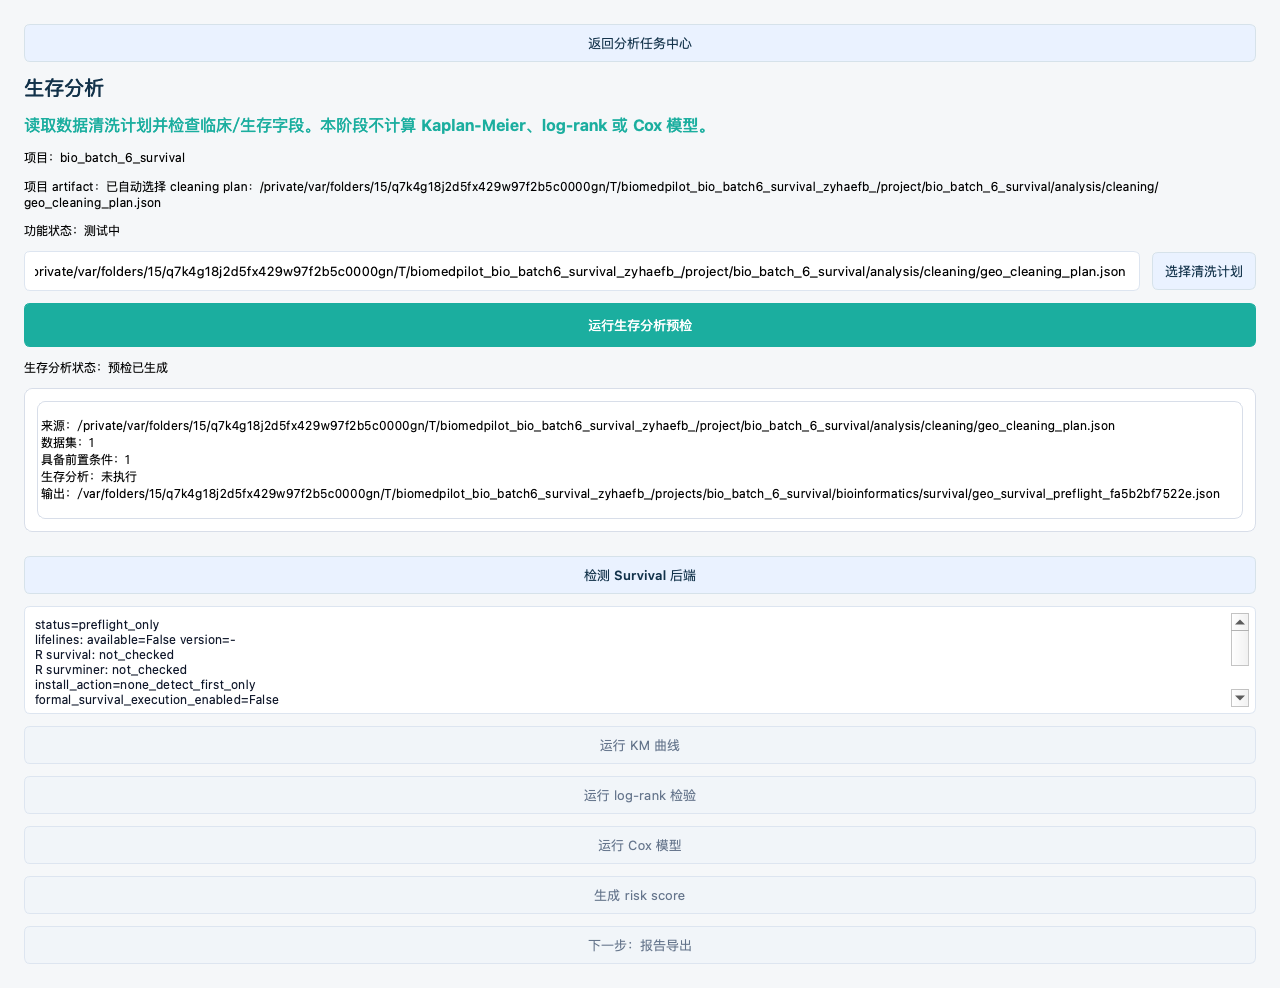
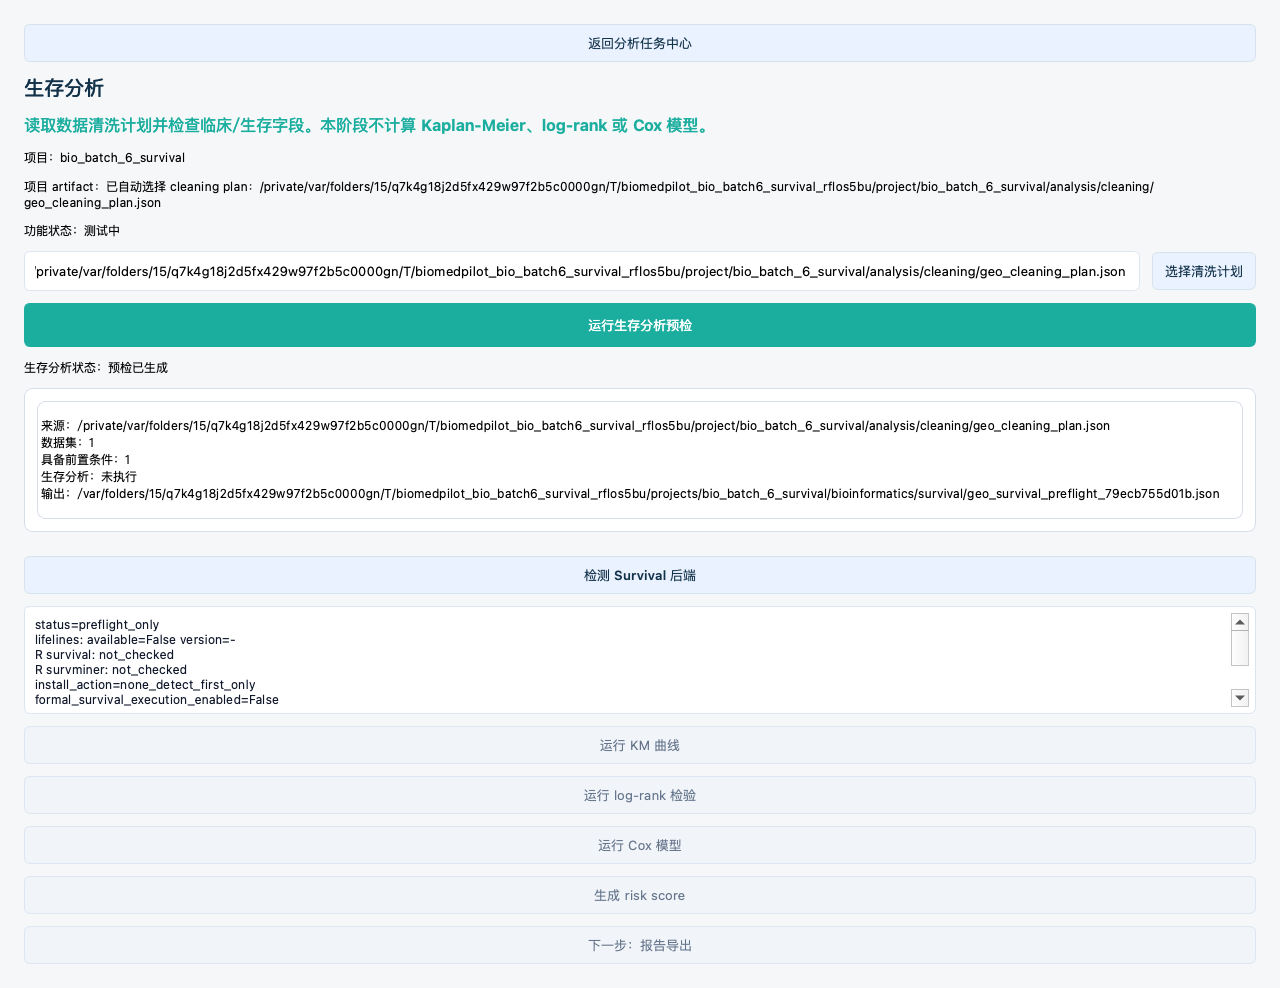
fix(bio): harden survival gate reasons

diff --git a/scripts/ui_route_contract_bio_batch6_survival.py b/scripts/ui_route_contract_bio_batch6_survival.py
@@ -213,7 +213,12 @@ def _audit_page_buttons(
     detect_button = _find_button(page, "detectSurvivalBackendButton")
     detect_button.click()
     detection_text = _find_plain_text(page, "survivalBackendDetectionText").toPlainText()
-    detect_ok = "lifelines:" in detection_text and "formal_survival_execution_enabled=False" in detection_text and "KM/log-rank/Cox/risk_score=disabled" in detection_text
+    detect_ok = (
+        "lifelines:" in detection_text
+        and "formal_survival_execution_enabled=False" in detection_text
+        and "KM/log-rank/Cox/risk_score=disabled" in detection_text
+        and "disabled_gate_basis=lifelines_or_r_survival_backend_required_plus_result_schema" in detection_text
+    )
     rows.append(
         _button_row(
             "BIO-SURVIVAL-DETECT-BACKEND",
@@ -228,13 +233,25 @@ def _audit_page_buttons(
         failures.append("BIO-SURVIVAL-DETECT-BACKEND: backend detection output did not include expected survival gates")
 
     disabled_expectations = {
-        "runKmCurveDisabledButton": ("BIO-SURVIVAL-KM-CURVE-GATE", "km_curve_executor_not_connected"),
-        "runLogRankDisabledButton": ("BIO-SURVIVAL-LOGRANK-GATE", "logrank_executor_not_connected"),
-        "runCoxModelDisabledButton": ("BIO-SURVIVAL-COX-MODEL-GATE", "cox_model_executor_not_connected"),
-        "generateRiskScoreDisabledButton": ("BIO-SURVIVAL-RISK-SCORE-GATE", "risk_score_model_not_connected"),
+        "runKmCurveDisabledButton": (
+            "BIO-SURVIVAL-KM-CURVE-GATE",
+            "km_curve_executor_requires_lifelines_or_r_survival_backend_and_result_schema",
+        ),
+        "runLogRankDisabledButton": (
+            "BIO-SURVIVAL-LOGRANK-GATE",
+            "logrank_executor_requires_lifelines_or_r_survival_backend_event_schema_and_grouping_gate",
+        ),
+        "runCoxModelDisabledButton": (
+            "BIO-SURVIVAL-COX-MODEL-GATE",
+            "cox_model_executor_requires_lifelines_or_r_survival_backend_covariate_schema_and_hr_result_schema",
+        ),
+        "generateRiskScoreDisabledButton": (
+            "BIO-SURVIVAL-RISK-SCORE-GATE",
+            "risk_score_requires_validated_model_formula_training_validation_schema_and_report_gate",
+        ),
         "survivalReportExportDisabledButton": (
             "BIO-SURVIVAL-CLINICAL-REPORT-READY-GATE",
-            "km_cox_logrank_risk_score_and_clinical_report_ready_gate_not_enabled",
+            "survival_clinical_report_ready_requires_km_logrank_cox_risk_score_results_and_gate",
         ),
     }
     for object_name, (contract_id, disabled_reason) in disabled_expectations.items():

diff --git a/app/bioinformatics/pages/survival_page.py b/app/bioinformatics/pages/survival_page.py
@@ -154,45 +154,45 @@ if QWidget is not None:
             km_button.setObjectName("runKmCurveDisabledButton")
             km_button.setEnabled(False)
             km_button.setProperty("buttonBehavior", "disabled_km_curve_executor_not_connected")
-            km_button.setProperty("disabledReason", "km_curve_executor_not_connected")
+            km_button.setProperty("disabledReason", "km_curve_executor_requires_lifelines_or_r_survival_backend_and_result_schema")
             km_button.setProperty("formalActionEnabled", False)
-            km_button.setToolTip("disabled：当前只生成 survival preflight artifact，KM curve executor 尚未纳入 release gate。")
+            km_button.setToolTip("disabled：需要 lifelines 或 R survival 后端、validated survival result schema 和 KM plot gate。")
             root.addWidget(km_button)
 
             logrank_button = QPushButton("运行 log-rank 检验")
             logrank_button.setObjectName("runLogRankDisabledButton")
             logrank_button.setEnabled(False)
             logrank_button.setProperty("buttonBehavior", "disabled_logrank_executor_not_connected")
-            logrank_button.setProperty("disabledReason", "logrank_executor_not_connected")
+            logrank_button.setProperty("disabledReason", "logrank_executor_requires_lifelines_or_r_survival_backend_event_schema_and_grouping_gate")
             logrank_button.setProperty("formalActionEnabled", False)
-            logrank_button.setToolTip("disabled：log-rank p-value executor 未接入；不能生成正式生存统计结论。")
+            logrank_button.setToolTip("disabled：需要 lifelines 或 R survival 后端、事件编码 schema、分组策略和正式 p-value 结果 schema。")
             root.addWidget(logrank_button)
 
             cox_button = QPushButton("运行 Cox 模型")
             cox_button.setObjectName("runCoxModelDisabledButton")
             cox_button.setEnabled(False)
             cox_button.setProperty("buttonBehavior", "disabled_cox_model_executor_not_connected")
-            cox_button.setProperty("disabledReason", "cox_model_executor_not_connected")
+            cox_button.setProperty("disabledReason", "cox_model_executor_requires_lifelines_or_r_survival_backend_covariate_schema_and_hr_result_schema")
             cox_button.setProperty("formalActionEnabled", False)
-            cox_button.setToolTip("disabled：Cox model executor、HR schema 和协变量审查 gate 未接入。")
+            cox_button.setToolTip("disabled：需要 lifelines 或 R survival 后端、协变量审查 gate、HR/CI/p-value result schema。")
             root.addWidget(cox_button)
 
             risk_button = QPushButton("生成 risk score")
             risk_button.setObjectName("generateRiskScoreDisabledButton")
             risk_button.setEnabled(False)
             risk_button.setProperty("buttonBehavior", "disabled_risk_score_model_not_connected")
-            risk_button.setProperty("disabledReason", "risk_score_model_not_connected")
+            risk_button.setProperty("disabledReason", "risk_score_requires_validated_model_formula_training_validation_schema_and_report_gate")
             risk_button.setProperty("formalActionEnabled", False)
-            risk_button.setToolTip("disabled：risk score model、评分公式、训练/验证 schema 未接入。")
+            risk_button.setToolTip("disabled：需要 validated model formula、训练/验证 schema、risk group manifest 和 report gate。")
             root.addWidget(risk_button)
 
             next_button = QPushButton("下一步：报告导出")
             next_button.setObjectName("survivalReportExportDisabledButton")
             next_button.setEnabled(False)
             next_button.setProperty("buttonBehavior", "disabled_survival_clinical_report_ready_not_connected")
-            next_button.setProperty("disabledReason", "km_cox_logrank_risk_score_and_clinical_report_ready_gate_not_enabled")
+            next_button.setProperty("disabledReason", "survival_clinical_report_ready_requires_km_logrank_cox_risk_score_results_and_gate")
             next_button.setProperty("formalActionEnabled", False)
-            next_button.setToolTip("disabled：KM/Cox/log-rank、risk score 和 clinical report-ready 不属于当前 Bio C1b 接线范围。")
+            next_button.setToolTip("disabled：KM/Cox/log-rank、risk score 结果和 clinical report-ready package gate 尚未满足。")
             root.addWidget(next_button)
             root.addStretch(1)
 
@@ -248,6 +248,7 @@ if QWidget is not None:
                 "formal_survival_execution_enabled=False",
                 "report_ready_gate_enabled=False",
                 "KM/log-rank/Cox/risk_score=disabled",
+                "disabled_gate_basis=lifelines_or_r_survival_backend_required_plus_result_schema",
                 str(snapshot.get("message") or ""),
                 "blockers=" + ", ".join(str(item) for item in snapshot.get("blockers", []) or []) if snapshot.get("blockers") else "blockers=none",
                 "warnings=" + ", ".join(str(item) for item in snapshot.get("warnings", []) or []) if snapshot.get("warnings") else "warnings=none",

diff --git a/tests/ui/test_bioinformatics_workflow_pages.py b/tests/ui/test_bioinformatics_workflow_pages.py
@@ -3707,7 +3707,7 @@ def test_bio_workspace_enrichment_and_survival_gate_pages_call_services(qt_app, 
     assert survival_disabled is not None
     assert not survival_disabled.isEnabled()
     assert survival_disabled.property("buttonBehavior") == "disabled_survival_clinical_report_ready_not_connected"
-    assert survival_disabled.property("disabledReason") == "km_cox_logrank_risk_score_and_clinical_report_ready_gate_not_enabled"
+    assert survival_disabled.property("disabledReason") == "survival_clinical_report_ready_requires_km_logrank_cox_risk_score_results_and_gate"
     assert "KM/Cox/log-rank" in survival_disabled.toolTip()
 
     survival_detect_backend = widget._survival_page.findChild(QPushButton, "detectSurvivalBackendButton")
@@ -3724,13 +3724,14 @@ def test_bio_workspace_enrichment_and_survival_gate_pages_call_services(qt_app, 
     assert "lifelines:" in survival_backend_result
     assert "formal_survival_execution_enabled=False" in survival_backend_result
     assert "KM/log-rank/Cox/risk_score=disabled" in survival_backend_result
+    assert "disabled_gate_basis=lifelines_or_r_survival_backend_required_plus_result_schema" in survival_backend_result
 
     survival_disabled_buttons = {
-        "runKmCurveDisabledButton": "km_curve_executor_not_connected",
-        "runLogRankDisabledButton": "logrank_executor_not_connected",
-        "runCoxModelDisabledButton": "cox_model_executor_not_connected",
-        "generateRiskScoreDisabledButton": "risk_score_model_not_connected",
-        "survivalReportExportDisabledButton": "km_cox_logrank_risk_score_and_clinical_report_ready_gate_not_enabled",
+        "runKmCurveDisabledButton": "km_curve_executor_requires_lifelines_or_r_survival_backend_and_result_schema",
+        "runLogRankDisabledButton": "logrank_executor_requires_lifelines_or_r_survival_backend_event_schema_and_grouping_gate",
+        "runCoxModelDisabledButton": "cox_model_executor_requires_lifelines_or_r_survival_backend_covariate_schema_and_hr_result_schema",
+        "generateRiskScoreDisabledButton": "risk_score_requires_validated_model_formula_training_validation_schema_and_report_gate",
+        "survivalReportExportDisabledButton": "survival_clinical_report_ready_requires_km_logrank_cox_risk_score_results_and_gate",
     }
     for object_name, disabled_reason in survival_disabled_buttons.items():
         button = widget._survival_page.findChild(QPushButton, object_name)

diff --git a/docs/project-control/UI_ROUTE_CONTRACT_BIO_BATCH6_SURVIVAL.md b/docs/project-control/UI_ROUTE_CONTRACT_BIO_BATCH6_SURVIVAL.md
@@ -1,7 +1,7 @@
 # UI Route Contract: Bio Batch 6 Survival/Clinical
 
 - branch: `integration/release-bio-c1-ui-shell`
-- head: `8b20ac157f3c582381cedc2690293327fc5c64f3`
+- head: `606bb2c7881a843d4e41e381116b120248b7877d`
 - scope: Bioinformatics survival/clinical input gate, backend dependency detection, KM/log-rank/Cox/risk score disabled gates, and clinical report-ready gate.
 - rows: 9
 - connected: 4
@@ -17,11 +17,11 @@
 | Contract | Object | Status | Behavior | Evidence | Observed |
 | --- | --- | --- | --- | --- | --- |
 | BIO-SURVIVAL-BACK | `survivalBackButton` | connected | `navigates_back_to_analysis_tasks` | signal=back_requested | back_signal=True |
-| BIO-SURVIVAL-CHOOSE-CLEANING-PLAN | `chooseSurvivalCleaningPlanButton` | connected | `selects_cleaning_plan_json` | /private/var/folders/15/q7k4g18j2d5fx429w97f2b5c0000gn/T/biomedpilot_bio_batch6_survival_zyhaefb_/project/bio_batch_6_survival/analysis/cleaning/geo_cleaning_plan.json | path_input=/private/var/folders/15/q7k4g18j2d5fx429w97f2b5c0000gn/T/biomedpilot_bio_batch6_survival_zyhaefb_/project/bio_batch_6_survival/analysis/cleaning/geo_cleaning_plan.json |
-| BIO-SURVIVAL-RUN-PREFLIGHT | `runSurvivalPreflightButton` | connected | `calls_survival_service_create_preflight_artifact` | /var/folders/15/q7k4g18j2d5fx429w97f2b5c0000gn/T/biomedpilot_bio_batch6_survival_zyhaefb_/projects/bio_batch_6_survival/bioinformatics/survival/geo_survival_preflight_fa5b2bf7522e.json | survival_analysis_executed=False |
+| BIO-SURVIVAL-CHOOSE-CLEANING-PLAN | `chooseSurvivalCleaningPlanButton` | connected | `selects_cleaning_plan_json` | /private/var/folders/15/q7k4g18j2d5fx429w97f2b5c0000gn/T/biomedpilot_bio_batch6_survival_rflos5bu/project/bio_batch_6_survival/analysis/cleaning/geo_cleaning_plan.json | path_input=/private/var/folders/15/q7k4g18j2d5fx429w97f2b5c0000gn/T/biomedpilot_bio_batch6_survival_rflos5bu/project/bio_batch_6_survival/analysis/cleaning/geo_cleaning_plan.json |
+| BIO-SURVIVAL-RUN-PREFLIGHT | `runSurvivalPreflightButton` | connected | `calls_survival_service_create_preflight_artifact` | /var/folders/15/q7k4g18j2d5fx429w97f2b5c0000gn/T/biomedpilot_bio_batch6_survival_rflos5bu/projects/bio_batch_6_survival/bioinformatics/survival/geo_survival_preflight_79ecb755d01b.json | survival_analysis_executed=False |
 | BIO-SURVIVAL-DETECT-BACKEND | `detectSurvivalBackendButton` | connected | `calls_survival_service_detect_backend_dependencies` | status=preflight_only; lifelines: available=False version=-; blockers=lifelines_missing_formal_survival_disabled; warnings=survival_backend_detection_only_no_km_cox_logrank_execution | status=preflight_only |
-| BIO-SURVIVAL-KM-CURVE-GATE | `runKmCurveDisabledButton` | disabled | `disabled_km_curve_executor_not_connected` | km_curve_executor_not_connected | enabled=False; disabledReason=km_curve_executor_not_connected |
-| BIO-SURVIVAL-LOGRANK-GATE | `runLogRankDisabledButton` | disabled | `disabled_logrank_executor_not_connected` | logrank_executor_not_connected | enabled=False; disabledReason=logrank_executor_not_connected |
-| BIO-SURVIVAL-COX-MODEL-GATE | `runCoxModelDisabledButton` | disabled | `disabled_cox_model_executor_not_connected` | cox_model_executor_not_connected | enabled=False; disabledReason=cox_model_executor_not_connected |
-| BIO-SURVIVAL-RISK-SCORE-GATE | `generateRiskScoreDisabledButton` | disabled | `disabled_risk_score_model_not_connected` | risk_score_model_not_connected | enabled=False; disabledReason=risk_score_model_not_connected |
-| BIO-SURVIVAL-CLINICAL-REPORT-READY-GATE | `survivalReportExportDisabledButton` | disabled | `disabled_survival_clinical_report_ready_not_connected` | km_cox_logrank_risk_score_and_clinical_report_ready_gate_not_enabled | enabled=False; disabledReason=km_cox_logrank_risk_score_and_clinical_report_ready_gate_not_enabled |
+| BIO-SURVIVAL-KM-CURVE-GATE | `runKmCurveDisabledButton` | disabled | `disabled_km_curve_executor_not_connected` | km_curve_executor_requires_lifelines_or_r_survival_backend_and_result_schema | enabled=False; disabledReason=km_curve_executor_requires_lifelines_or_r_survival_backend_and_result_schema |
+| BIO-SURVIVAL-LOGRANK-GATE | `runLogRankDisabledButton` | disabled | `disabled_logrank_executor_not_connected` | logrank_executor_requires_lifelines_or_r_survival_backend_event_schema_and_grouping_gate | enabled=False; disabledReason=logrank_executor_requires_lifelines_or_r_survival_backend_event_schema_and_grouping_gate |
+| BIO-SURVIVAL-COX-MODEL-GATE | `runCoxModelDisabledButton` | disabled | `disabled_cox_model_executor_not_connected` | cox_model_executor_requires_lifelines_or_r_survival_backend_covariate_schema_and_hr_result_schema | enabled=False; disabledReason=cox_model_executor_requires_lifelines_or_r_survival_backend_covariate_schema_and_hr_result_schema |
+| BIO-SURVIVAL-RISK-SCORE-GATE | `generateRiskScoreDisabledButton` | disabled | `disabled_risk_score_model_not_connected` | risk_score_requires_validated_model_formula_training_validation_schema_and_report_gate | enabled=False; disabledReason=risk_score_requires_validated_model_formula_training_validation_schema_and_report_gate |
+| BIO-SURVIVAL-CLINICAL-REPORT-READY-GATE | `survivalReportExportDisabledButton` | disabled | `disabled_survival_clinical_report_ready_not_connected` | survival_clinical_report_ready_requires_km_logrank_cox_risk_score_results_and_gate | enabled=False; disabledReason=survival_clinical_report_ready_requires_km_logrank_cox_risk_score_results_and_gate |

diff --git a/docs/project-control/UI_ROUTE_CONTRACT_BIO_C1_CLOSURE_MATRIX.md b/docs/project-control/UI_ROUTE_CONTRACT_BIO_C1_CLOSURE_MATRIX.md
@@ -1,7 +1,7 @@
 # Bioinformatics C1 Closure Matrix
 
 - branch: `integration/release-bio-c1-ui-shell`
-- head: `396645e24b7fc3628b44bd7030107f737d4a358f`
+- head: `606bb2c7881a843d4e41e381116b120248b7877d`
 - closure_status: `passed_with_documented_gaps`
 - ui_page_count: `7`
 - capability_row_count: `7`
@@ -16,7 +16,7 @@
 | --- | --- | --- | --- | --- | --- | --- |
 | `batch4_formal_deg` | `docs/project-control/UI_ROUTE_CONTRACT_BIO_BATCH4_FORMAL_DEG.json` | `8b20ac157f3c` | `8` | `8` | `0` | `0` |
 | `batch5_enrichment` | `docs/project-control/UI_ROUTE_CONTRACT_BIO_BATCH5_ENRICHMENT.json` | `396645e24b7f` | `9` | `4` | `5` | `0` |
-| `batch6_survival` | `docs/project-control/UI_ROUTE_CONTRACT_BIO_BATCH6_SURVIVAL.json` | `8b20ac157f3c` | `9` | `4` | `5` | `0` |
+| `batch6_survival` | `docs/project-control/UI_ROUTE_CONTRACT_BIO_BATCH6_SURVIVAL.json` | `606bb2c7881a` | `9` | `4` | `5` | `0` |
 | `batch7_report_export` | `docs/project-control/UI_ROUTE_CONTRACT_BIO_BATCH7_REPORT_EXPORT.json` | `8b20ac157f3c` | `13` | `13` | `0` | `0` |
 | `batch8_visible_buttons` | `docs/project-control/UI_ROUTE_CONTRACT_BIO_BATCH8_VISIBLE_BUTTONS.json` | `b47d29ba66a4` | `94` | `56` | `38` | `0` |
 | `batch9_data_prep_adapters` | `docs/project-control/UI_ROUTE_CONTRACT_BIO_BATCH9_DATA_PREP_ADAPTERS.json` | `546e66394ef2` | `9` | `9` | `0` | `0` |